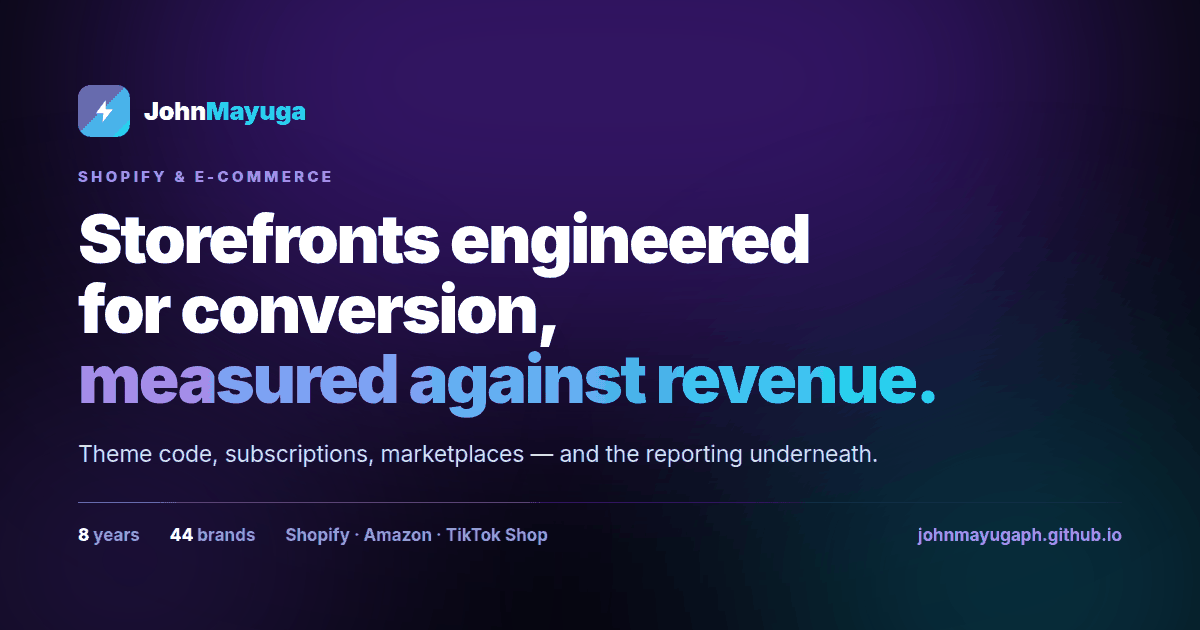
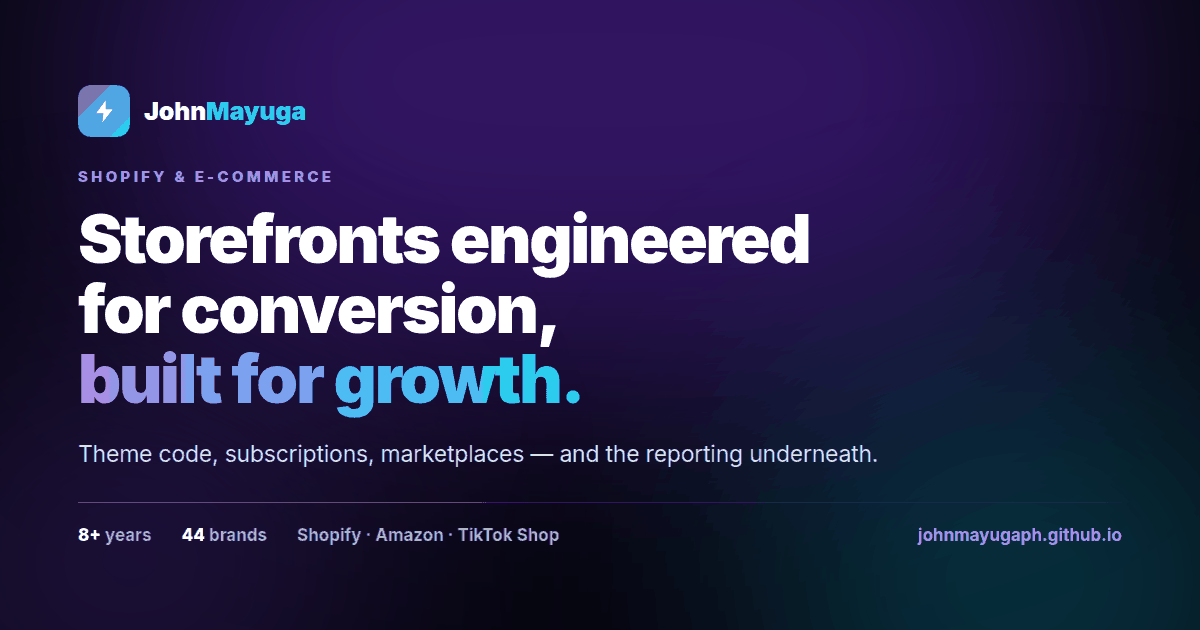
Add files via upload

diff --git a/index.html b/index.html
@@ -17,7 +17,7 @@
 <meta property="og:image" content="https://johnmayugaph.github.io/og.png">
 <meta property="og:image:width" content="1200">
 <meta property="og:image:height" content="630">
-<meta property="og:image:alt" content="John Paul Mayuga — Shopify storefronts engineered for conversion, measured against revenue.">
+<meta property="og:image:alt" content="John Paul Mayuga — Shopify storefronts engineered for conversion, built for growth.">
 <meta name="twitter:card" content="summary_large_image">
 <meta name="twitter:image" content="https://johnmayugaph.github.io/og.png">
 <meta name="twitter:title" content="John Paul Mayuga — Shopify &amp; E-commerce Portfolio">
@@ -469,8 +469,8 @@ footer.ft{border-top:1px solid var(--line-soft);background:var(--foot);padding:4
       Open to work — full-time or contract, remote
     </div>
     <p class="kicker">John Paul Mayuga</p>
-    <h1>Shopify storefronts engineered for conversion,<br><span class="grad">measured against revenue.</span></h1>
-    <p class="lede">Eight years of Shopify theme development, subscription platforms, marketplace operations and the reporting that sits underneath them. <b>Forty-four brands</b> — each one documented on this page, with the work I did on it.</p>
+    <h1>Shopify storefronts engineered for conversion,<br><span class="grad">built for growth.</span></h1>
+    <p class="lede">8+ years of Shopify theme development, subscription platforms, marketplace operations and the reporting that sits underneath them. <b>44 brands</b> — each one documented on this page, with the work I did on it.</p>
     <div class="cta-col">
       <div class="cta-row">
         <a class="btn btn-xl" href="#hire">
@@ -1925,18 +1925,26 @@ document.addEventListener("click",function(e){
 draw();
 
 /* Sticky contact bar: show once the hero is out of view, hide again over the
-   contact section so it never sits on top of the CTA it duplicates. */
+   contact section so it never sits on top of the CTA it duplicates.
+   Driven by scroll position rather than IntersectionObserver: IO batches
+   entries during fast scrolling, and reading entries[0] can act on a stale
+   observation, which left the bar stuck visible after a long jump. */
 (function(){
   var bar=document.querySelector(".sticky"); if(!bar) return;
   var hero=document.querySelector(".hero"), hire=document.getElementById("hire");
-  var heroOut=false, atContact=false;
-  var sync=function(){ bar.classList.toggle("show", heroOut && !atContact); };
-  if("IntersectionObserver" in window){
-    new IntersectionObserver(function(e){ heroOut=!e[0].isIntersecting; sync(); },
-      {rootMargin:"-40% 0px 0px 0px"}).observe(hero);
-    if(hire) new IntersectionObserver(function(e){ atContact=e[0].isIntersecting; sync(); },
-      {threshold:0.18}).observe(hire);
-  } else { bar.classList.add("show"); }
+  var ticking=false;
+  function update(){
+    ticking=false;
+    var heroOut = window.scrollY > (hero ? hero.offsetHeight*0.6 : 400);
+    var atContact = false;
+    if(hire){ var r=hire.getBoundingClientRect();
+      atContact = r.top < window.innerHeight*0.85 && r.bottom > 0; }
+    bar.classList.toggle("show", heroOut && !atContact);
+  }
+  function onScroll(){ if(!ticking){ ticking=true; requestAnimationFrame(update); } }
+  window.addEventListener("scroll", onScroll, {passive:true});
+  window.addEventListener("resize", onScroll, {passive:true});
+  update();
 })();
 
 /* Every SVG here is decorative - each one sits next to its own text label -

diff --git a/README.md b/README.md
@@ -159,7 +159,7 @@ Three numbers at the top of the stylesheet drive the violet used across the page
 | Footer copyright `--s-600` → `--s-500` | The remaining failure — 2.41:1, the worst on the page. |
 | `og:image` + `twitter:image` + `og.png` | `twitter:card` claimed `summary_large_image` with no image, so every LinkedIn/Slack/X share rendered as a bare text card. `og.png` is a 1200×630 card built in the site's own type and palette. |
 | `referrerpolicy="no-referrer"` on 143 logo images | Brand logos come from Google's favicon service — 77 requests that were handing Google the referring URL of every visitor. The logos still load; the referrer no longer leaks. |
-| Sticky bar now reveals on scroll | It was permanently on, sitting on top of the hero's "See the work" button on phones. Now it appears once the hero scrolls away and hides again over the contact section, so it never covers the CTA it duplicates. |
+| Sticky bar now reveals on scroll | It was permanently on, sitting on top of the hero's "See the work" button on phones. Now it appears once the hero scrolls away and hides again over the contact section, so it never covers the CTA it duplicates. Driven by a rAF-throttled scroll handler rather than IntersectionObserver — IO batches entries during fast scrolling and the first attempt read a stale one, which left the bar stuck visible after a long jump. 18 state checks pass across desktop and mobile, including eight rapid full-page jumps. |
 | Skip-to-content link | Keyboard and screen-reader users had to tab through the whole nav on every visit. |
 | `aria-hidden="true"` on 79 decorative SVGs | Screen readers were announcing every icon as an unlabelled graphic. |
 | JSON-LD `Person` schema | Gives Google structured facts — name, role, location, skills, GitHub — instead of guessing from prose. |
